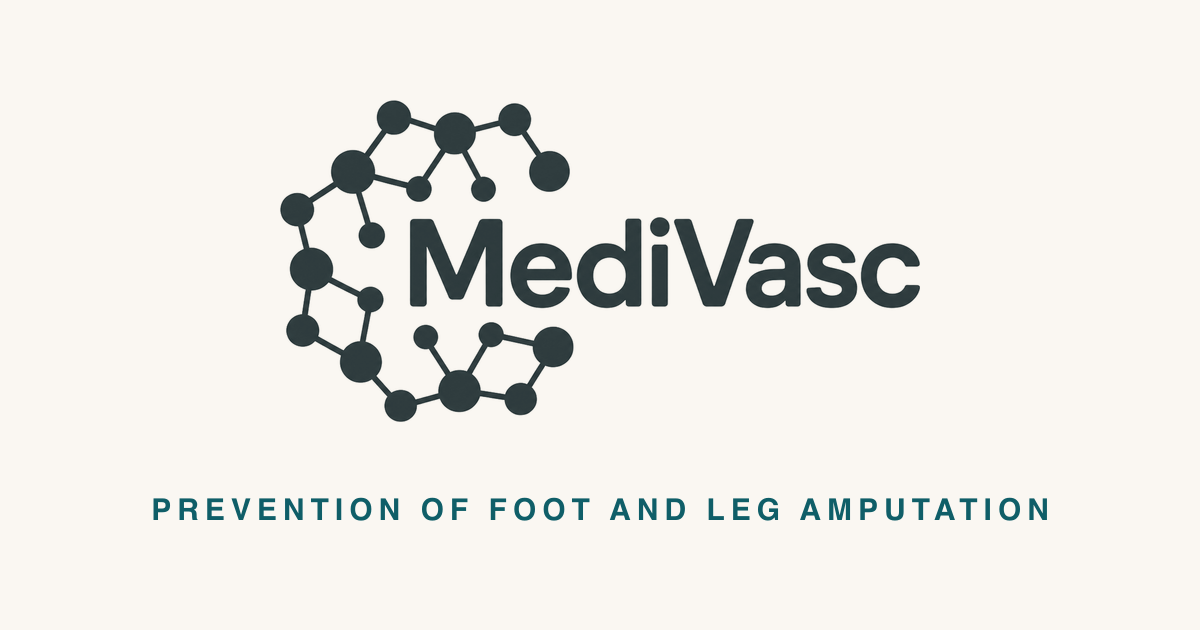
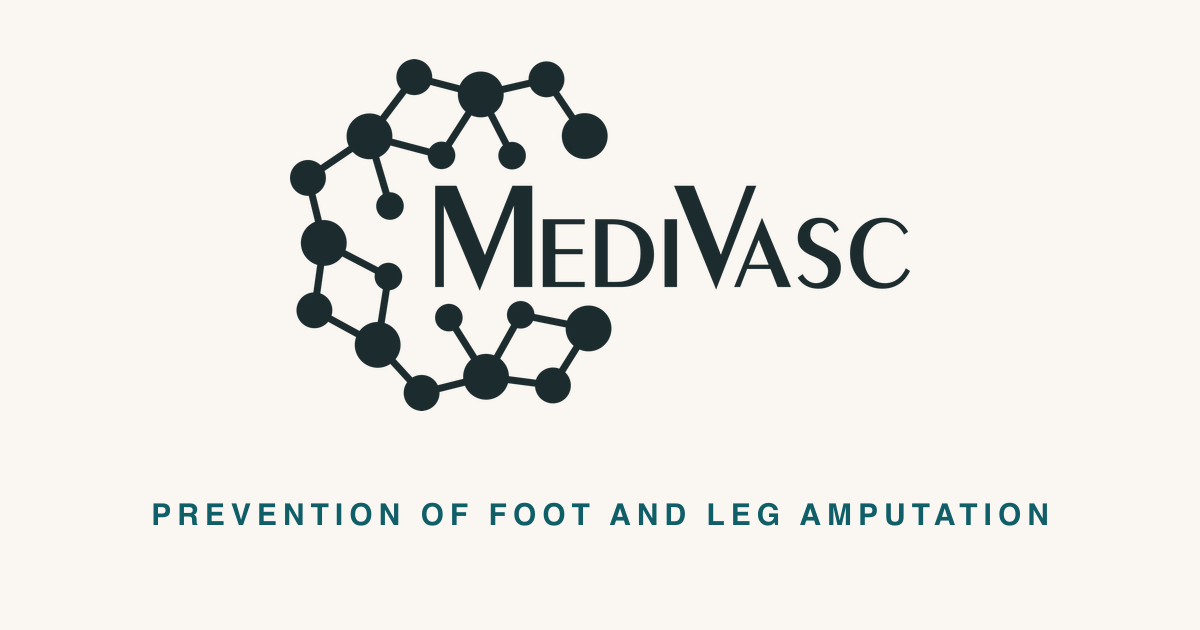
brand: swap every site lockup to the Exotc350 wordmark; drop the Google image preview
Three owner-driven changes (2026-07-24).

1. Like-for-like new-font logos. gen-brand.js now derives the site lockups from
   the committed mono-black outlines in assets/brand/logo_newfont/ instead of
   logo-full.png, repainting their alpha with the site's own #1C2B2E / #EAF2F0 —
   so the swap changes the wordmark and nothing else. Owner rule: the website
   lockup stays monochrome; the purple/gradient variants are collateral-only.
   The script now also generates the four -tm/-tm-lg footer cuts, which until now
   had no generator at all, and it resizes every variant to a common HEIGHT (not
   width) so the header/footer scale ratio the CSS was tuned against survives.

   The new wordmark has a different aspect (1.76:1 vs 1.99:1 plain), so the
   hard-coded width="512" height="257" would now cost a layout shift: the plain
   lockup goes through prepareMarkSized like the ™ ones, and template.js takes
   measured dimensions for all six. admin/index.html likewise.

2. No more image thumbnail in Google's mobile result. The image the owner saw was
   og-image.png — the social-share card, which appears nowhere on the site —
   pulled in as a snippet thumbnail and centre-cropped to a square, slicing the
   lockup and the kicker. No meta can nominate a different thumbnail, so the page
   now sends robots max-image-preview:none and the result renders as text, the way
   desktop already did. og:image stays: WhatsApp/LinkedIn previews ignore the
[…]

Changed region(s): [[0.2158, 0.0905, 0.7708, 0.6635], [0.1233, 0.7841, 0.8633, 0.8444]]

diff --git a/tools/gen-brand.js b/tools/gen-brand.js
@@ -1,21 +1,53 @@
-// Regenerates brand assets derived from the owner's logo lockup.
-// Chain: tools/prepare-brand.js (owner PNG -> logo-full.png + marks/favicons)
-//        -> this script (logo-full.png -> tinted header lockups + OG image).
-// Supersedes tools/prepare-og.js (the OG card is now the lockup itself, so the
-// header and social card can never drift apart). Run: node tools/gen-brand.js
+// Regenerates the brand lockups the site renders, from the new-font masters.
+//
+// Chain: tools/prepare-brand.js (owner PNG -> logo-full.png + mark-only
+//        favicons/icons — those carry NO wordmark, so they are font-agnostic)
+//        -> this script (logo_newfont masters -> tinted site lockups + OG card).
+//
+// Source of truth is assets/brand/logo_newfont/ — the Exotc350 (Peignot) lockup
+// family, shipped as OUTLINES so the commercial font never has to live in this
+// repo. We source the *mono black* variants and repaint them: the masters are
+// flat #0C0C0C on transparency, so the alpha channel is the artwork and a
+// tint = flat fill + that alpha. Colour variants (purple / gradient) exist in
+// logo_newfont/ but the website lockup is deliberately monochrome.
+//
+// Emits (all resized to a common LOCKUP_H so the header/footer scale ratio
+// matches what the CSS was tuned against):
+//   logo-ink.png  logo-paper.png              plain lockup, light / dark bg
+//   logo-{ink,paper}-tm.png                   ™ at the c's shoulder (base size)
+//   logo-{ink,paper}-tm-lg.png                ™ one step larger (desktop footer)
+//   og-image.png                              1200x630 social card
+//
+// Run: node tools/gen-brand.js   (then `node src/build.js`)
 const path = require('node:path');
 const sharp = require('sharp');
 
 const ROOT = path.resolve(__dirname, '..');
 const BRAND = path.join(ROOT, 'assets', 'brand');
+const NEWFONT = path.join(BRAND, 'logo_newfont');
 
 const INK = '#1C2B2E';
 const PAPER = '#EAF2F0';
 const OG_BG = '#FAF7F2';
 
-const tintedLockup = async (color, width) => {
-  const trimmed = await sharp(path.join(BRAND, 'logo-full.png')).trim().png().toBuffer();
-  const resized = await sharp(trimmed).resize({ width }).png().toBuffer();
+// Rendered height of every stored lockup. The build downsamples to 512px wide
+// and the CSS drives display height, so this only sets source resolution — but
+// resizing all variants to the SAME height (not the same width) is what keeps
+// the plain and ™ lockups at their historical relative scale.
+const LOCKUP_H = 640;
+
+// name in logo_newfont/ -> stored basename in assets/brand/
+const MASTERS = [
+  ['MediVasc-logo-black.png', ''],
+  [path.join('logo_tm', 'MediVasc-logo-black-tm.png'), '-tm'],
+  [path.join('logo_tm', 'MediVasc-logo-black-tm-lg.png'), '-tm-lg'],
+];
+
+// Trim the master's transparent padding, scale to `height`, then repaint the
+// alpha with a flat colour.
+const tintedLockup = async (master, color, { height, width } = {}) => {
+  const trimmed = await sharp(master).trim().png().toBuffer();
+  const resized = await sharp(trimmed).resize(width ? { width } : { height }).png().toBuffer();
   const meta = await sharp(resized).metadata();
   const alpha = await sharp(resized).extractChannel(3).toBuffer();
   return {
@@ -30,26 +62,38 @@ const tintedLockup = async (color, width) => {
 };
 
 const run = async () => {
-  const ink = await tintedLockup(INK, 720);
-  const paper = await tintedLockup(PAPER, 720);
-  await sharp(ink.buffer).toFile(path.join(BRAND, 'logo-ink.png'));
-  await sharp(paper.buffer).toFile(path.join(BRAND, 'logo-paper.png'));
+  for (const [master, suffix] of MASTERS) {
+    const src = path.join(NEWFONT, master);
+    const ink = await tintedLockup(src, INK, { height: LOCKUP_H });
+    const paper = await tintedLockup(src, PAPER, { height: LOCKUP_H });
+    await sharp(ink.buffer).toFile(path.join(BRAND, `logo-ink${suffix}.png`));
+    await sharp(paper.buffer).toFile(path.join(BRAND, `logo-paper${suffix}.png`));
+    console.log(`logo-{ink,paper}${suffix}.png  ${ink.meta.width}x${ink.meta.height}`);
+  }
 
-  const ogLockup = await tintedLockup(INK, 640);
+  // OG card: the lockup itself, so the social card and the header can never
+  // drift apart. Sized/placed to sit optically centred above the kicker.
+  const ogLockup = await tintedLockup(path.join(NEWFONT, 'MediVasc-logo-black.png'), INK, {
+    width: 620,
+  });
   const kicker = Buffer.from(
     `<svg width="1200" height="630">
-      <text x="600" y="520" text-anchor="middle" font-family="Helvetica, Arial, sans-serif"
+      <text x="600" y="525" text-anchor="middle" font-family="Helvetica, Arial, sans-serif"
         font-size="30" font-weight="600" letter-spacing="6" fill="#0F5E68">PREVENTION OF FOOT AND LEG AMPUTATION</text>
     </svg>`,
   );
   await sharp({ create: { width: 1200, height: 630, channels: 3, background: OG_BG } })
     .composite([
-      { input: ogLockup.buffer, left: Math.round((1200 - ogLockup.meta.width) / 2), top: 100 },
+      {
+        input: ogLockup.buffer,
+        left: Math.round((1200 - ogLockup.meta.width) / 2),
+        top: Math.round((470 - ogLockup.meta.height) / 2),
+      },
       { input: kicker, left: 0, top: 0 },
     ])
     .png({ compressionLevel: 9 })
     .toFile(path.join(BRAND, 'og-image.png'));
-  console.log('Brand assets regenerated: logo-ink, logo-paper, og-image.');
+  console.log(`og-image.png  lockup ${ogLockup.meta.width}x${ogLockup.meta.height}`);
 };
 
 run().catch((error) => {

diff --git a/src/template.js b/src/template.js
@@ -466,19 +466,21 @@ const renderPage = ({
   // render always shows exactly one styled set, never a doubled "«…»".
   const heroHeadlineText = String(config.heroHeadline || '')
     .replace(/^[\s"“”'‘’]+|[\s"“”'‘’]+$/g, '');
+  // Every lockup variant carries its own measured intrinsic width/height (see
+  // prepareMarkSized in build.js) — the aspect differs per variant and moved with
+  // the Exotc350 wordmark, so a hard-coded 512x257 would cost a layout shift.
+  const lockupImgs = (mark, loading) =>
+    `<img class="lockup--ink" src="${mark.ink.src}" alt="" width="${mark.ink.width}" height="${mark.ink.height}" loading="${loading}" decoding="async">
+    <img class="lockup--paper" src="${mark.paper.src}" alt="" width="${mark.paper.width}" height="${mark.paper.height}" loading="${loading}" decoding="async">`;
   const lockup = (context) => `<span class="lockup" aria-hidden="true">
-    <img class="lockup--ink" src="${markPaths.ink}" alt="" width="512" height="257" loading="${context === 'header' ? 'eager' : 'lazy'}" decoding="async">
-    <img class="lockup--paper" src="${markPaths.paper}" alt="" width="512" height="257" loading="${context === 'header' ? 'eager' : 'lazy'}" decoding="async">
+    ${lockupImgs(markPaths, context === 'header' ? 'eager' : 'lazy')}
   </span>`;
   // Footer-only lockup: the ™ is baked into these variants at the 'c' shoulder
   // (see assets/brand/logo-*-tm*.png) rather than positioned in CSS, so it stays
   // pixel-tight to the letterform. Two size wrappers — '-lg' (larger ™) for the
   // 54px desktop render, base for the 64px phone render — swapped by breakpoint in
-  // CSS (.lockup__size--sm hidden on desktop, --lg hidden ≤760px). Wider canvas
-  // than the plain mark → each img carries its own intrinsic width/height.
-  const tmImg = (mark) =>
-    `<img class="lockup--ink" src="${mark.ink.src}" alt="" width="${mark.ink.width}" height="${mark.ink.height}" loading="lazy" decoding="async">
-    <img class="lockup--paper" src="${mark.paper.src}" alt="" width="${mark.paper.width}" height="${mark.paper.height}" loading="lazy" decoding="async">`;
+  // CSS (.lockup__size--sm hidden on desktop, --lg hidden ≤760px).
+  const tmImg = (mark) => lockupImgs(mark, 'lazy');
   const footerLockup = () => `<span class="lockup" aria-hidden="true">
     <span class="lockup__size lockup__size--lg">${tmImg(markPathsTmLg)}</span>
     <span class="lockup__size lockup__size--sm">${tmImg(markPathsTm)}</span>
@@ -497,7 +499,15 @@ const renderPage = ({
   <script>(function(){document.documentElement.classList.add('js');try{var s=localStorage.getItem('medivasc-color-scheme')||localStorage.getItem('naviga-color-scheme');var d=s?s==='dark':matchMedia('(prefers-color-scheme:dark)').matches;if(d)document.documentElement.dataset.theme='dark'}catch(e){}})()</script>
   <title>${escapeHtml(config.seo.title)}</title>
   <meta name="description" content="${escapeHtml(config.seo.description)}">
-  <meta name="robots" content="index,follow">
+  <!-- max-image-preview:none — Google's *mobile* result for medivasc.in was pulling
+       the og:image in as a snippet thumbnail and centre-cropping it to a square,
+       which sliced the lockup and the kicker ("MediVasc" cut off, "…VENTION OF
+       FOOT AND LEG AMP…"). There is no meta that picks a different thumbnail, so
+       we opt out of image previews and let the result render as clean text, the
+       way desktop already did. og:image itself stays — WhatsApp/LinkedIn/X
+       previews are unaffected by this directive, and WhatsApp is our main channel.
+       Trade-off: no image thumbnail in Google results or Discover. -->
+  <meta name="robots" content="index,follow,max-image-preview:none">
 ${config.seo.googleVerification ? `  <meta name="google-site-verification" content="${escapeHtml(config.seo.googleVerification)}">\n` : ''}  <meta name="theme-color" content="${escapeHtml(themeBg)}">
   <meta property="og:type" content="website">
   <meta property="og:site_name" content="${escapeHtml(company.name)}">

diff --git a/src/build.js b/src/build.js
@@ -97,17 +97,11 @@ const buildGallery = async (srcs, widths) => {
   return { map, bySrc };
 };
 
-const prepareMark = async (name, width = 128) => {
-  const buffer = await sharp(path.join(ROOT, 'assets', 'brand', `${name}.png`))
-    .resize({ width, withoutEnlargement: true })
-    .png({ compressionLevel: 9 })
-    .toBuffer();
-  return writeHashed('assets/brand', name, 'png', buffer);
-};
-
-// Like prepareMark but also returns the resized intrinsic dimensions. Used for the
-// footer ™ lockup, whose canvas is wider than the plain mark (the ™ is baked at the
-// 'c' shoulder), so the <img> needs its own width/height to avoid a layout shift.
+// Resizes a stored lockup and returns its hashed path plus the resized intrinsic
+// dimensions. Every lockup variant has its own aspect (the ™ ones are wider — the
+// ™ is baked at the 'c' shoulder) and the aspect changed with the Exotc350
+// wordmark, so the <img> must carry measured width/height, never a constant, or
+// the header/footer take a layout shift on load.
 const prepareMarkSized = async (name, width = 512) => {
   const buffer = await sharp(path.join(ROOT, 'assets', 'brand', `${name}.png`))
     .resize({ width, withoutEnlargement: true })
@@ -141,8 +135,8 @@ const copyBrandAssets = async () => {
   );
   const [ogImage, ink, paper, inkTm, paperTm, inkTmLg, paperTmLg] = await Promise.all([
     processImage('assets/brand/og-image.png'),
-    prepareMark('logo-ink', 512),
-    prepareMark('logo-paper', 512),
+    prepareMarkSized('logo-ink', 512),
+    prepareMarkSized('logo-paper', 512),
     prepareMarkSized('logo-ink-tm', 512),
     prepareMarkSized('logo-paper-tm', 512),
     prepareMarkSized('logo-ink-tm-lg', 512),

diff --git a/admin/index.html b/admin/index.html
@@ -26,8 +26,8 @@
     <div class="auth-card">
       <div class="auth-brand">
         <span class="brand-row brand-lockup" aria-label="MediVasc">
-          <img class="lockup--ink" src="../assets/brand/logo-ink.png" alt="" width="512" height="257">
-          <img class="lockup--paper" src="../assets/brand/logo-paper.png" alt="" width="512" height="257">
+          <img class="lockup--ink" src="../assets/brand/logo-ink.png" alt="" width="1129" height="640">
+          <img class="lockup--paper" src="../assets/brand/logo-paper.png" alt="" width="1129" height="640">
         </span>
         <button class="icon-button" id="auth-theme-toggle" type="button" aria-label="Toggle dark mode">
           <svg viewBox="0 0 24 24" aria-hidden="true"><circle cx="12" cy="12" r="3.5"/><path d="M12 2v2M12 20v2M4.9 4.9l1.4 1.4M17.7 17.7l1.4 1.4M2 12h2M20 12h2M4.9 19.1l1.4-1.4M17.7 6.3l1.4-1.4"/></svg>
@@ -77,8 +77,8 @@
   <div class="app-shell" id="app-view" hidden>
     <header class="app-header">
       <a class="brand-row brand-lockup" href="../" aria-label="MediVasc home">
-        <img class="lockup--ink" src="../assets/brand/logo-ink.png" alt="" width="512" height="257">
-        <img class="lockup--paper" src="../assets/brand/logo-paper.png" alt="" width="512" height="257">
+        <img class="lockup--ink" src="../assets/brand/logo-ink.png" alt="" width="1129" height="640">
+        <img class="lockup--paper" src="../assets/brand/logo-paper.png" alt="" width="1129" height="640">
       </a>
       <div class="header-context">
         <strong>Content admin</strong>
